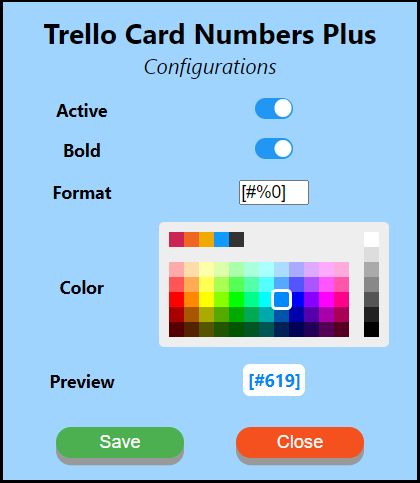
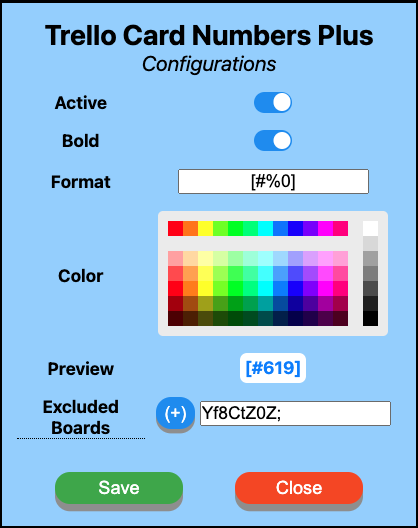
feat: pre release improvements 1.1.0 (#22)

diff --git a/src/popup/popup.ts b/src/popup/popup.ts
@@ -1,7 +1,7 @@
 import './popup.css';
 import '../trelloCardNumberPlus.css';
 import { Configs, configStorage } from '../shared/storage';
-import { formatNumber, isBlacklisted } from '../shared/utils';
+import { formatNumber, isBoardExcluded } from '../shared/utils';
 import { TCNP_NUMBER_CLASS_BOLD } from '../shared/const';
 import Huebee from 'huebee';
 
@@ -33,8 +33,9 @@ function loadConfigs() {
     getInput(Controls.CardNumbersBold).checked = configs.cardNumbersBold;
     getInput(Controls.NumberFormat).value = configs.numberFormat;
     getInput(Controls.NumberColor).value = configs.numberColor;
-    getInput(Controls.Blacklist).value = configs.blacklist;
+    getInput(Controls.ExcludedBoards).value = configs.excludedBoards;
     updatePreview();
+    updateExcludedBoardsButtonText();
   });
 }
 
@@ -44,7 +45,7 @@ function saveConfig(): void {
   configs.cardNumbersBold = getInput(Controls.CardNumbersBold).checked;
   configs.numberFormat = getInput(Controls.NumberFormat).value;
   configs.numberColor = getInput(Controls.NumberColor).value;
-  configs.blacklist = getInput(Controls.Blacklist).value;
+  configs.excludedBoards = getInput(Controls.ExcludedBoards).value;
 
   configStorage.set(configs);
 }
@@ -56,7 +57,7 @@ enum Controls {
   CardNumbersBold = 'card-numbers-bold',
   NumberFormat = 'number-format',
   NumberColor = 'number-color',
-  Blacklist = 'blacklist',
+  ExcludedBoards = 'excludedBoards',
 }
 
 function getInput(control: Controls) {
@@ -83,26 +84,31 @@ async function getCurrentBoardId() {
   return tab.url?.split('/b/')[1].split('/')[0] ?? 'not-found';
 }
 
-async function toggleCurrentBoardBlacklist() {
+async function toggleCurrentBoardExcludedBoards() {
   const currentBoard = await getCurrentBoardId();
-  const blacklist = getInput(Controls.Blacklist).value;
-  const blacklistButton = document.getElementById('blacklist-toggle-btn');
+  const excludedBoards = getInput(Controls.ExcludedBoards).value;
 
-  if (isBlacklisted(blacklist, currentBoard)) {
-    const filteredBlacklist = blacklist
+  if (isBoardExcluded(excludedBoards, currentBoard)) {
+    const filteredExcludedBoards = excludedBoards
       .split(';')
       .filter((boardId) => boardId.trim() !== currentBoard)
       .join(';');
-    getInput(Controls.Blacklist).value = filteredBlacklist;
-
-    if (blacklistButton) {
-      blacklistButton.innerText = '(+)';
-    }
+    getInput(Controls.ExcludedBoards).value = filteredExcludedBoards;
   } else {
-    getInput(Controls.Blacklist).value = `${currentBoard};${blacklist}`;
-    if (blacklistButton) {
-      blacklistButton.innerText = '(-)';
-    }
+    getInput(Controls.ExcludedBoards).value = `${currentBoard};${excludedBoards}`;
+  }
+
+  updateExcludedBoardsButtonText();
+}
+
+function updateExcludedBoardsButtonText() {
+  const excludedBoardsButton = document.getElementById('excludedBoards-toggle-btn');
+
+  if (excludedBoardsButton) {
+    getCurrentBoardId().then((currentBoard) => {
+      const excludedBoards = getInput(Controls.ExcludedBoards).value;
+      excludedBoardsButton.innerText = isBoardExcluded(excludedBoards, currentBoard) ? '(-)' : '(+)';
+    });
   }
 }
 
@@ -113,5 +119,5 @@ document.getElementById('close-button')?.addEventListener('click', () => window.
 [getInput(Controls.NumberFormat), getInput(Controls.CardNumbersBold)].forEach((el) =>
   el.addEventListener('input', updatePreview)
 );
-document.getElementById('blacklist-toggle-btn')?.addEventListener('click', toggleCurrentBoardBlacklist);
+document.getElementById('excludedBoards-toggle-btn')?.addEventListener('click', toggleCurrentBoardExcludedBoards);
 //#endregion

diff --git a/src/popup/popup.css b/src/popup/popup.css
@@ -75,6 +75,11 @@ button {
   flex: 2;
 }
 
+.config-section button {
+  box-shadow: 0 0.25em #999;
+  font-size: 1.1rem;
+}
+
 .buttons-row {
   display: flex;
   flex-direction: row;
@@ -93,7 +98,7 @@ input {
 }
 
 #number-format {
-  width: 4em;
+  text-align: center;
 }
 
 #number-format-preview {
@@ -183,6 +188,7 @@ input:checked + .slider:before {
   border: none;
   border-radius: 15px;
   box-shadow: 0 0.4em #999;
+  margin-top: -0.1rem;
   margin-bottom: 0.4em;
 }
 
@@ -209,6 +215,10 @@ input:checked + .slider:before {
   background-color: #d04116;
 }
 
+.button.add {
+  background-color: #2196f3;
+}
+
 .tooltip {
   position: relative;
   display: inline-block;
@@ -222,7 +232,7 @@ input:checked + .slider:before {
   color: #fff;
   text-align: center;
   border-radius: 6px;
-  padding: 5px 0;
+  padding: 7px;
   position: absolute;
   z-index: 1;
   bottom: 125%;

diff --git a/public/popup.html b/public/popup.html
@@ -52,14 +52,13 @@
         <div class="config-row">
           <div class="config-label">
             <div class="tooltip">
-              Blacklist
-              <span class="tooltiptext">Add the board ID to this list, separated by ; to not show the numbers</span>
+              Excluded Boards
+              <span class="tooltiptext">Add the board ID to this list, separated by ; to exclude it</span>
             </div>
-
-            <button id="blacklist-toggle-btn">(+)</button>
           </div>
           <div class="config-control">
-            <input type="text" id="blacklist" />
+            <button class="button add" id="excludedBoards-toggle-btn">(+)</button>
+            <input type="text" id="excludedBoards" />
           </div>
         </div>
       </div>

diff --git a/src/shared/utils.ts b/src/shared/utils.ts
@@ -32,7 +32,7 @@ export function getCardNumberFromParent(element: Element): number {
   return getCardNumberFromURL(url);
 }
 
-export function isBlacklisted(blacklist: string, boardId: string) {
-  const blacklistedBoards = blacklist.split(';').map((ids) => ids.trim());
-  return blacklistedBoards.includes(boardId);
+export function isBoardExcluded(excludedBoards: string, boardId: string) {
+  const excludedBoardsedBoards = excludedBoards.split(';').map((ids) => ids.trim());
+  return excludedBoardsedBoards.includes(boardId);
 }

diff --git a/src/trelloCardNumberPlus.ts b/src/trelloCardNumberPlus.ts
@@ -13,7 +13,7 @@ import {
   isDialogClosed,
   isDroppedCard,
   isAddedCard,
-  isBlacklisted,
+  isBoardExcluded,
 } from './shared/utils';
 import { Configs, configStorage } from './shared/storage';
 import './trelloCardNumberPlus.css';
@@ -36,7 +36,7 @@ function refresh(updatedConfigs: Configs): void {
 
   const currentBoard = getCurrentBoardId();
 
-  if (isBlacklisted(configs.blacklist, currentBoard)) return;
+  if (isBoardExcluded(configs.excludedBoards, currentBoard)) return;
 
   setupNumbers();
   setupDialogNumber();

diff --git a/src/shared/storage.ts b/src/shared/storage.ts
@@ -3,7 +3,7 @@ export class Configs {
   cardNumbersBold = true;
   numberFormat = '#%0';
   numberColor = '#000';
-  blacklist = '';
+  excludedBoards = '';
 }
 
 export const configStorage = {

diff --git a/README.md b/README.md
@@ -8,7 +8,7 @@
   <a href="https://chrome.google.com/webstore/detail/trello-card-numbers-plus/ncibjlmfhjcjnphnpphgphbflpdpliei" rel="nofollow"><img alt="Chrome Web Store" src="https://img.shields.io/chrome-web-store/users/ncibjlmfhjcjnphnpphgphbflpdpliei"></a>
   <a href="https://chrome.google.com/webstore/detail/trello-card-numbers-plus/ncibjlmfhjcjnphnpphgphbflpdpliei" rel="nofollow"><img alt="Chrome Web Store" src="https://img.shields.io/chrome-web-store/rating/ncibjlmfhjcjnphnpphgphbflpdpliei"></a>
   <a href="https://youtu.be/G-nZXr_Gs6o" rel="nofollow"><img alt="youTube video views" src="https://img.shields.io/youtube/views/G-nZXr_Gs6o?label=youtube%20views&style=flat"></a>
-  <a href="https://github.com/Balastrong" rel="nofollow"><img src="https://img.shields.io/badge/created%20by-@Balastrong-4BBAAB.svg" alt="created by Leonardo Montini"></a>
+  <a href="https://leonardomontini.dev" rel="nofollow"><img src="https://img.shields.io/badge/created%20by-Leonardo%20Montini-4BBAAB.svg" alt="created by Leonardo Montini"></a>
 </p>
 
 # Trello Card Numbers Plus
@@ -31,6 +31,7 @@ This extension provides full customization of the card numbers, have a look!
 - Count cards for each list
 - Configs live reload
 - Customize colors
+- Exclude some boards
 
 ### Planned features
 
